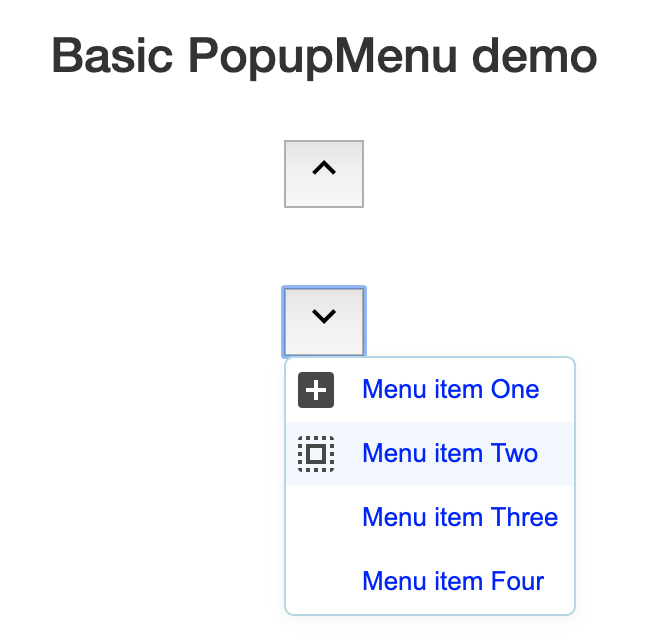
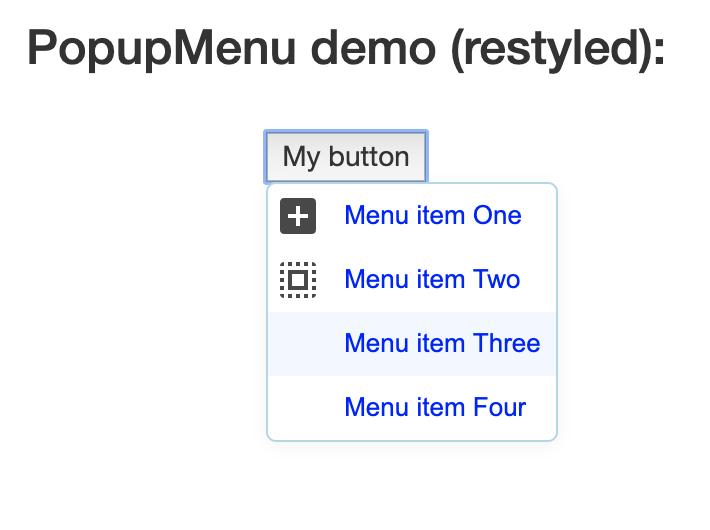
Minor improvements:  - changed event handling  - changed demo (simplified)  - updated README

diff --git a/popup-menu.js b/popup-menu.js
@@ -103,13 +103,11 @@ export default class PopupMenu extends HTMLElement {
     menuItems.forEach(item => {
       const p = document.createElement('p');
       p.innerText = item.itemName;
-
       const menuItem = document.createElement('div');
       menuItem.classList.add('popup-menu-item');
       menuItem.addEventListener('click', () => {
         this._onPopupMenuItemClick(item.itemId);
       });
-
       if (item.imageUrl || isImagePresent) {
         const image = document.createElement('div');
         image.style.backgroundImage
@@ -117,12 +115,32 @@ export default class PopupMenu extends HTMLElement {
         image.classList.add('image');
         menuItem.appendChild(image);
       }
-
       menuItem.appendChild(p);
       this.shadow.appendChild(menuItem);
     });
-
     this.shadow.appendChild(style);
+    this._onHandleClosingEvent = this._onHandleClosingEvent.bind(this);
+  }
+
+  connectedCallback() {
+    ['click', 'resize', 'orientationchange'].forEach(eventName =>
+      window.addEventListener(eventName, this._onHandleClosingEvent));
+  }
+
+  disconnectedCallback() {
+    ['click', 'resize', 'orientationchange'].forEach(eventName =>
+      window.removeEventListener(eventName, this._onHandleClosingEvent));
+  }
+
+  /**
+   * @private
+   * @param {DOMEvent} e Closes the existing instance of PopupMenu if specified
+   * event is not defaultPrevented
+   */
+  _onHandleClosingEvent(e) {
+    if (!e.defaultPrevented) {
+      PopupMenu.close();
+    }
   }
 
   /**
@@ -203,14 +221,6 @@ export default class PopupMenu extends HTMLElement {
 
 if (!window.customElements.get(PopupMenu.is)) {
   window.customElements.define(PopupMenu.is, PopupMenu);
-  window.addEventListener('click', event => {
-    // Do not close the PopupMenu for the events marked as ignored for the
-    // PopupMenu
-    if (!event.defaultPrevented) {
-      // When the non-marked click event is received, always close PopupMenu
-      PopupMenu.close();
-    }
-  });
 }
 
 export { PopupMenuItem, PopupMenuPosition };

diff --git a/demo/index.js b/demo/index.js
@@ -13,30 +13,13 @@ window.onload = () => {
     new PopupMenuItem(4, 'Menu item Four')
   ];
 
-  // Example of showing PopupMenu on the top of the first button:
-  
-  const button1 = document.getElementById('showMenuButton1');
-  button1.addEventListener('click', async e => {
-    // Mark this click event as ignored by the PopupMenu's event listener
-    e.preventDefault();
-    // Align PopupMenu position to the top left of the button
-    const position = PopupMenuPosition.alignTopLeft(button1);
-    // Show PopupMenu and wait for the selected menu id asynchronously
-    const selectedId = await PopupMenu.show(itemList, position);
-    if (selectedId) {
-      alert(`You have selected: ${itemList.find(item => item.itemId
-        == selectedId).itemName}`);
-    }
-  });
-
-  // Example of showing PopupMenu on the bottom of the second button:
-
-  const button2 = document.getElementById('showMenuButton2');
-  button2.addEventListener('click', async e => {
+  // Example of showing PopupMenu on the bottom of the button:
+  const button = document.getElementById('showMenuButton');
+  button.addEventListener('click', async e => {
     // Mark this click event as ignored by the PopupMenu's event listener
     e.preventDefault();
     // Align PopupMenu position to the bottom left of the button
-    const position = PopupMenuPosition.alignBottomLeft(button2);
+    const position = PopupMenuPosition.alignBottomLeft(button);
     // Show PopupMenu and wait for the selected menu id asynchronously
     const selectedId = await PopupMenu.show(itemList, position);
     if (selectedId) {
@@ -44,7 +27,6 @@ window.onload = () => {
         == selectedId).itemName}`);
     }
   });
-
 }
 
 

diff --git a/demo/index.html b/demo/index.html
@@ -20,18 +20,9 @@
     </style>
   </head>
   <body>
-    <h3>Basic PopupMenu demo</h3>
-    <button id="showMenuButton1" title="Show PopupMenu on top">
-      <svg xmlns="http://www.w3.org/2000/svg" width="24" height="24" viewBox="0 0 24 24">
-        <path d="M7.41 15.41L12 10.83l4.59 4.58L18 14l-6-6-6 6z"/>
-        <path d="M0 0h24v24H0z" fill="none"/>
-      </svg>
-    </button>
-    <button id="showMenuButton2" title="Show PopupMenu on bottom">
-      <svg xmlns="http://www.w3.org/2000/svg" width="24" height="24" viewBox="0 0 24 24">
-        <path d="M7.41 8.59L12 13.17l4.59-4.58L18 10l-6 6-6-6 1.41-1.41z"/>
-        <path fill="none" d="M0 0h24v24H0V0z"/>
-      </svg>
+    <h3>PopupMenu demo:</h3>
+    <button id="showMenuButton" title="Show PopupMenu on bottom">
+      My button
     </button>
   </body>
   <!-- This is bundled index.js file -->

diff --git a/README.md b/README.md
@@ -33,14 +33,12 @@ First, run `npm install` to install all development dependencies. Then run `npm 
 ```
 Check <a href="https://github.com/ui-widgets-js/popup-menu/blob/master/demo/index.js">demo/index.js</a> for the full example code.
 
-## Styling the popup menu
+## Styling the PopupMenu
 
-Modify the font, the color, or any other style property of the PopupMenu by adding css to your web application.
-
-The example of modifying style of the PopupMenu:
+Modify the font, the color, or any other property of the PopupMenu by adding css for _popup-menu_ tag in your application. For example:
 ```
   body popup-menu {
-    color: lightbule;
+    color: blue;
     border: 1px solid lightblue;
   }
 ```
